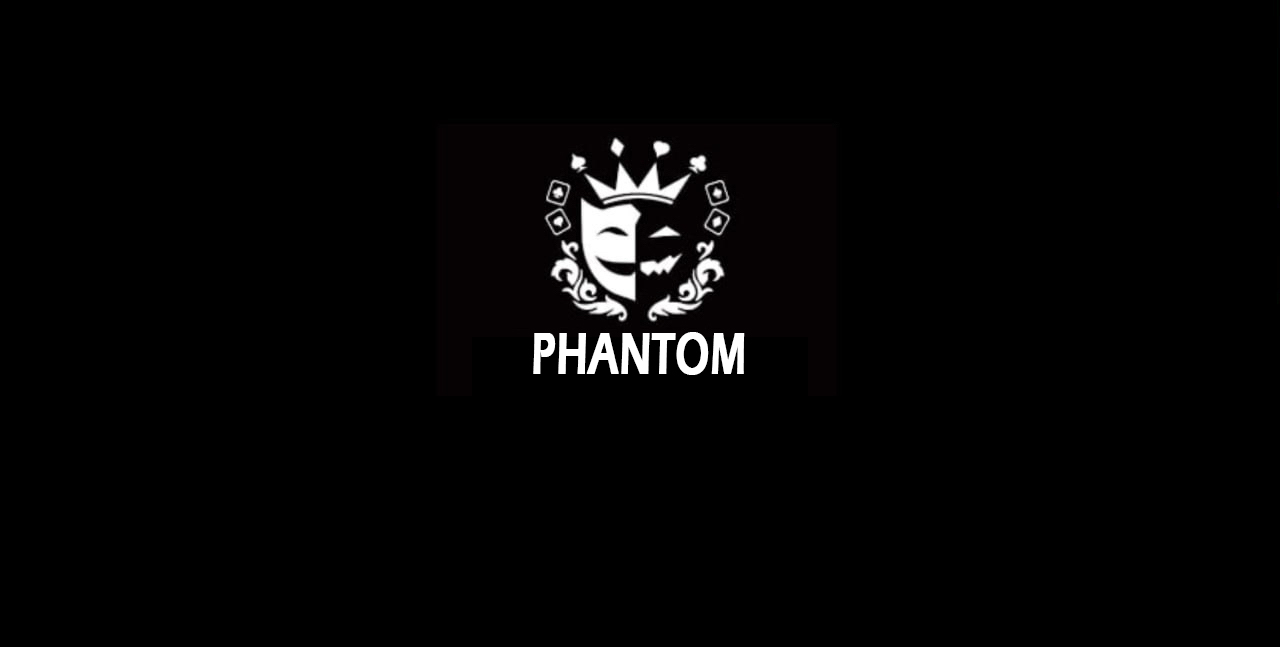
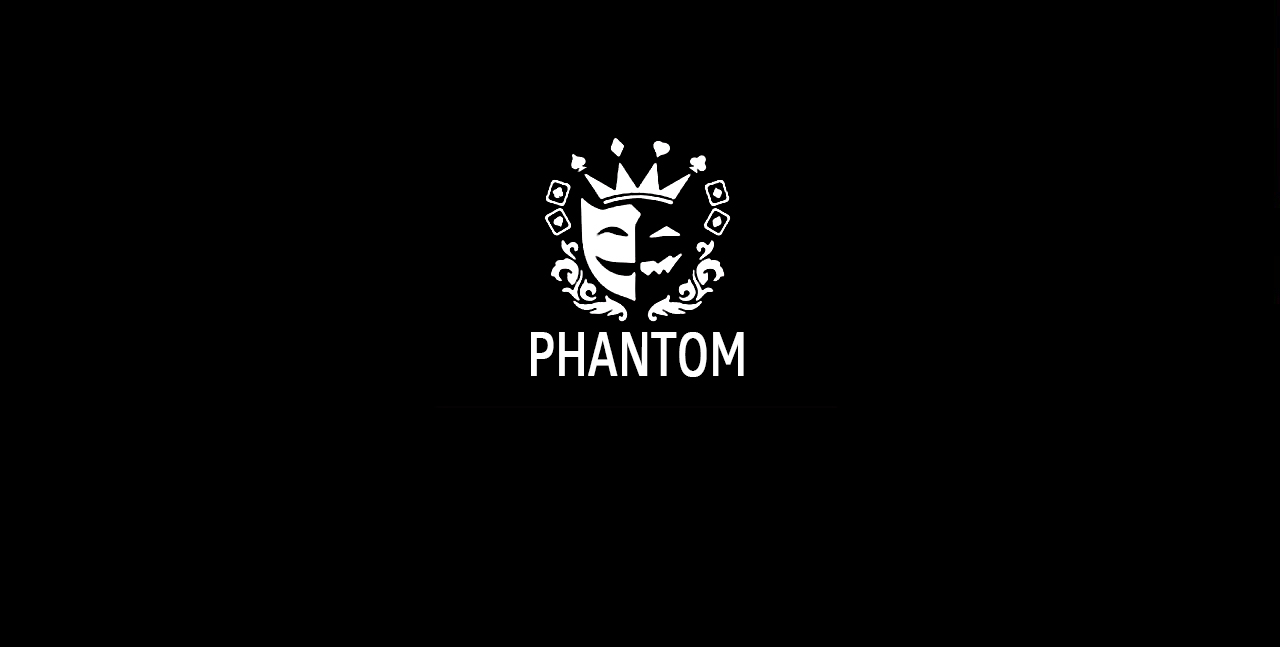
20230519

Changed region(s): [[0.4062, 0.2164, 0.5938, 0.5873]]

diff --git a/app/Views/home/login.php b/app/Views/home/login.php
@@ -49,7 +49,7 @@
         
         <?php if($_ENV['app.name'] == APP_PHANTOM) :?>
             #wrap.users_wrap {
-                background:url(/images/login/login_bg_<?=strtolower($_ENV['app.logo'])?>.jpg?v=1) no-repeat center center;
+                background:url(/images/login/login_bg_<?=strtolower($_ENV['app.logo'])?>.jpg?v=2) no-repeat center center;
                 background-size: cover;
                 padding-bottom: 0;
                 overflow: hidden;
